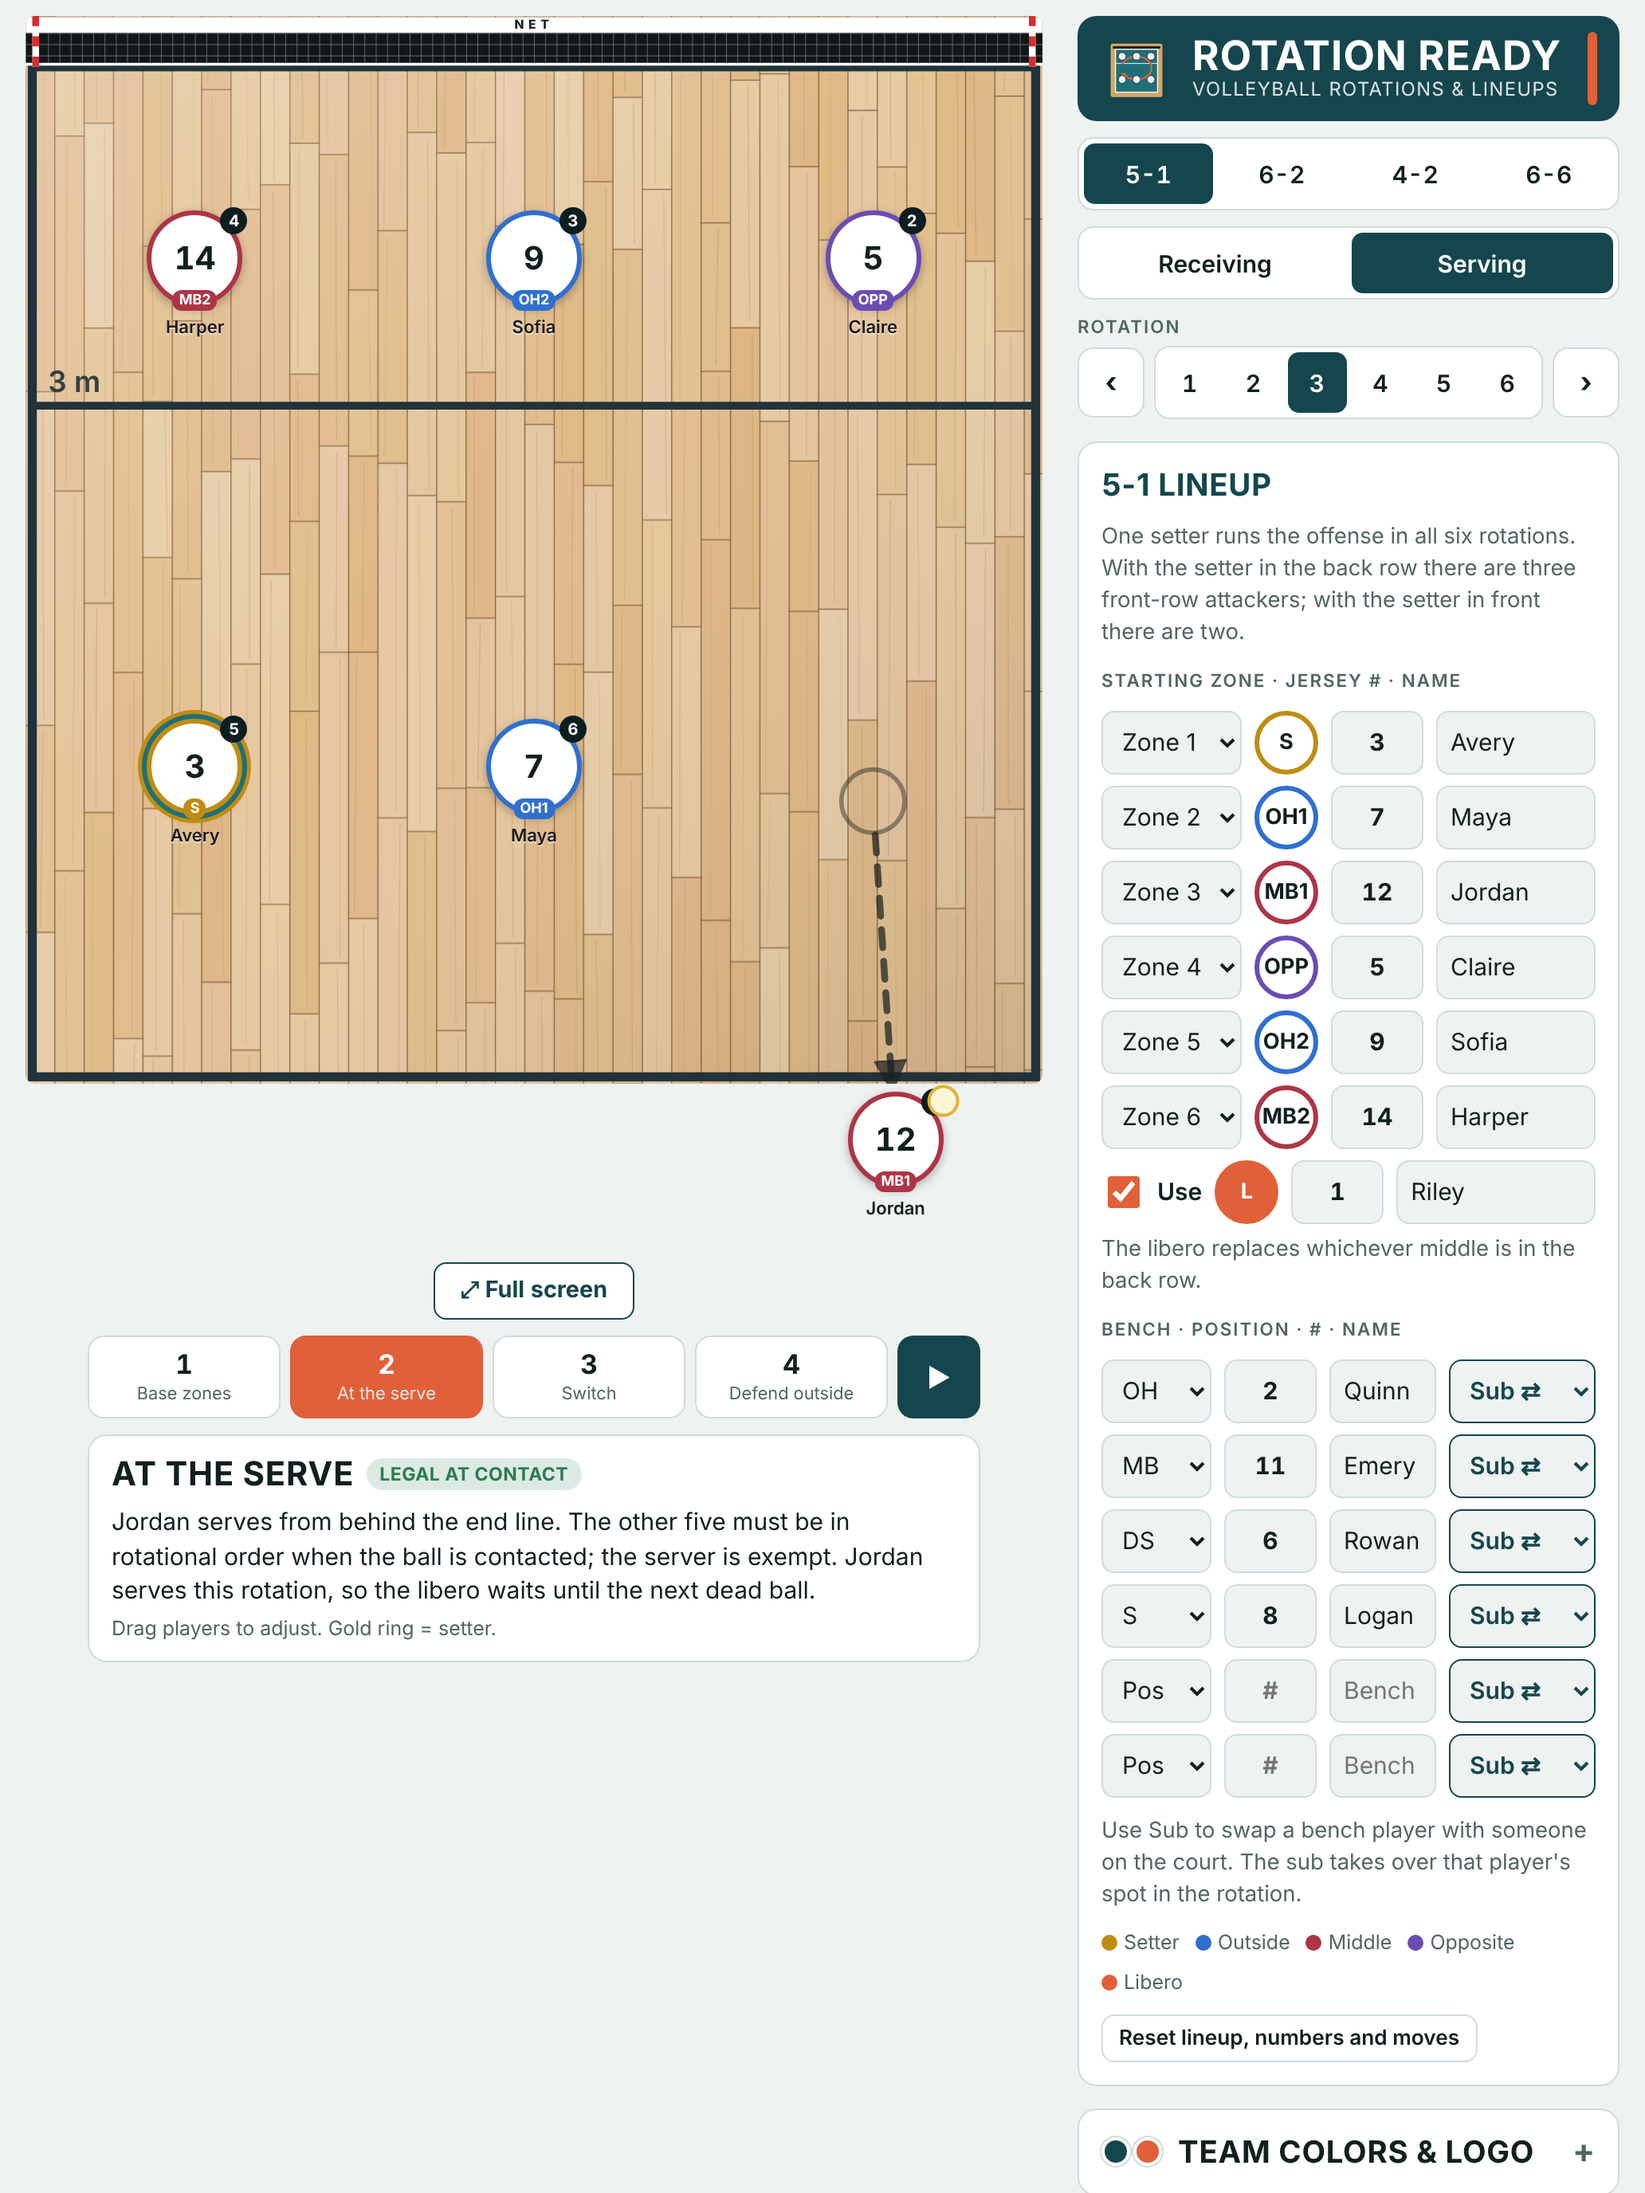
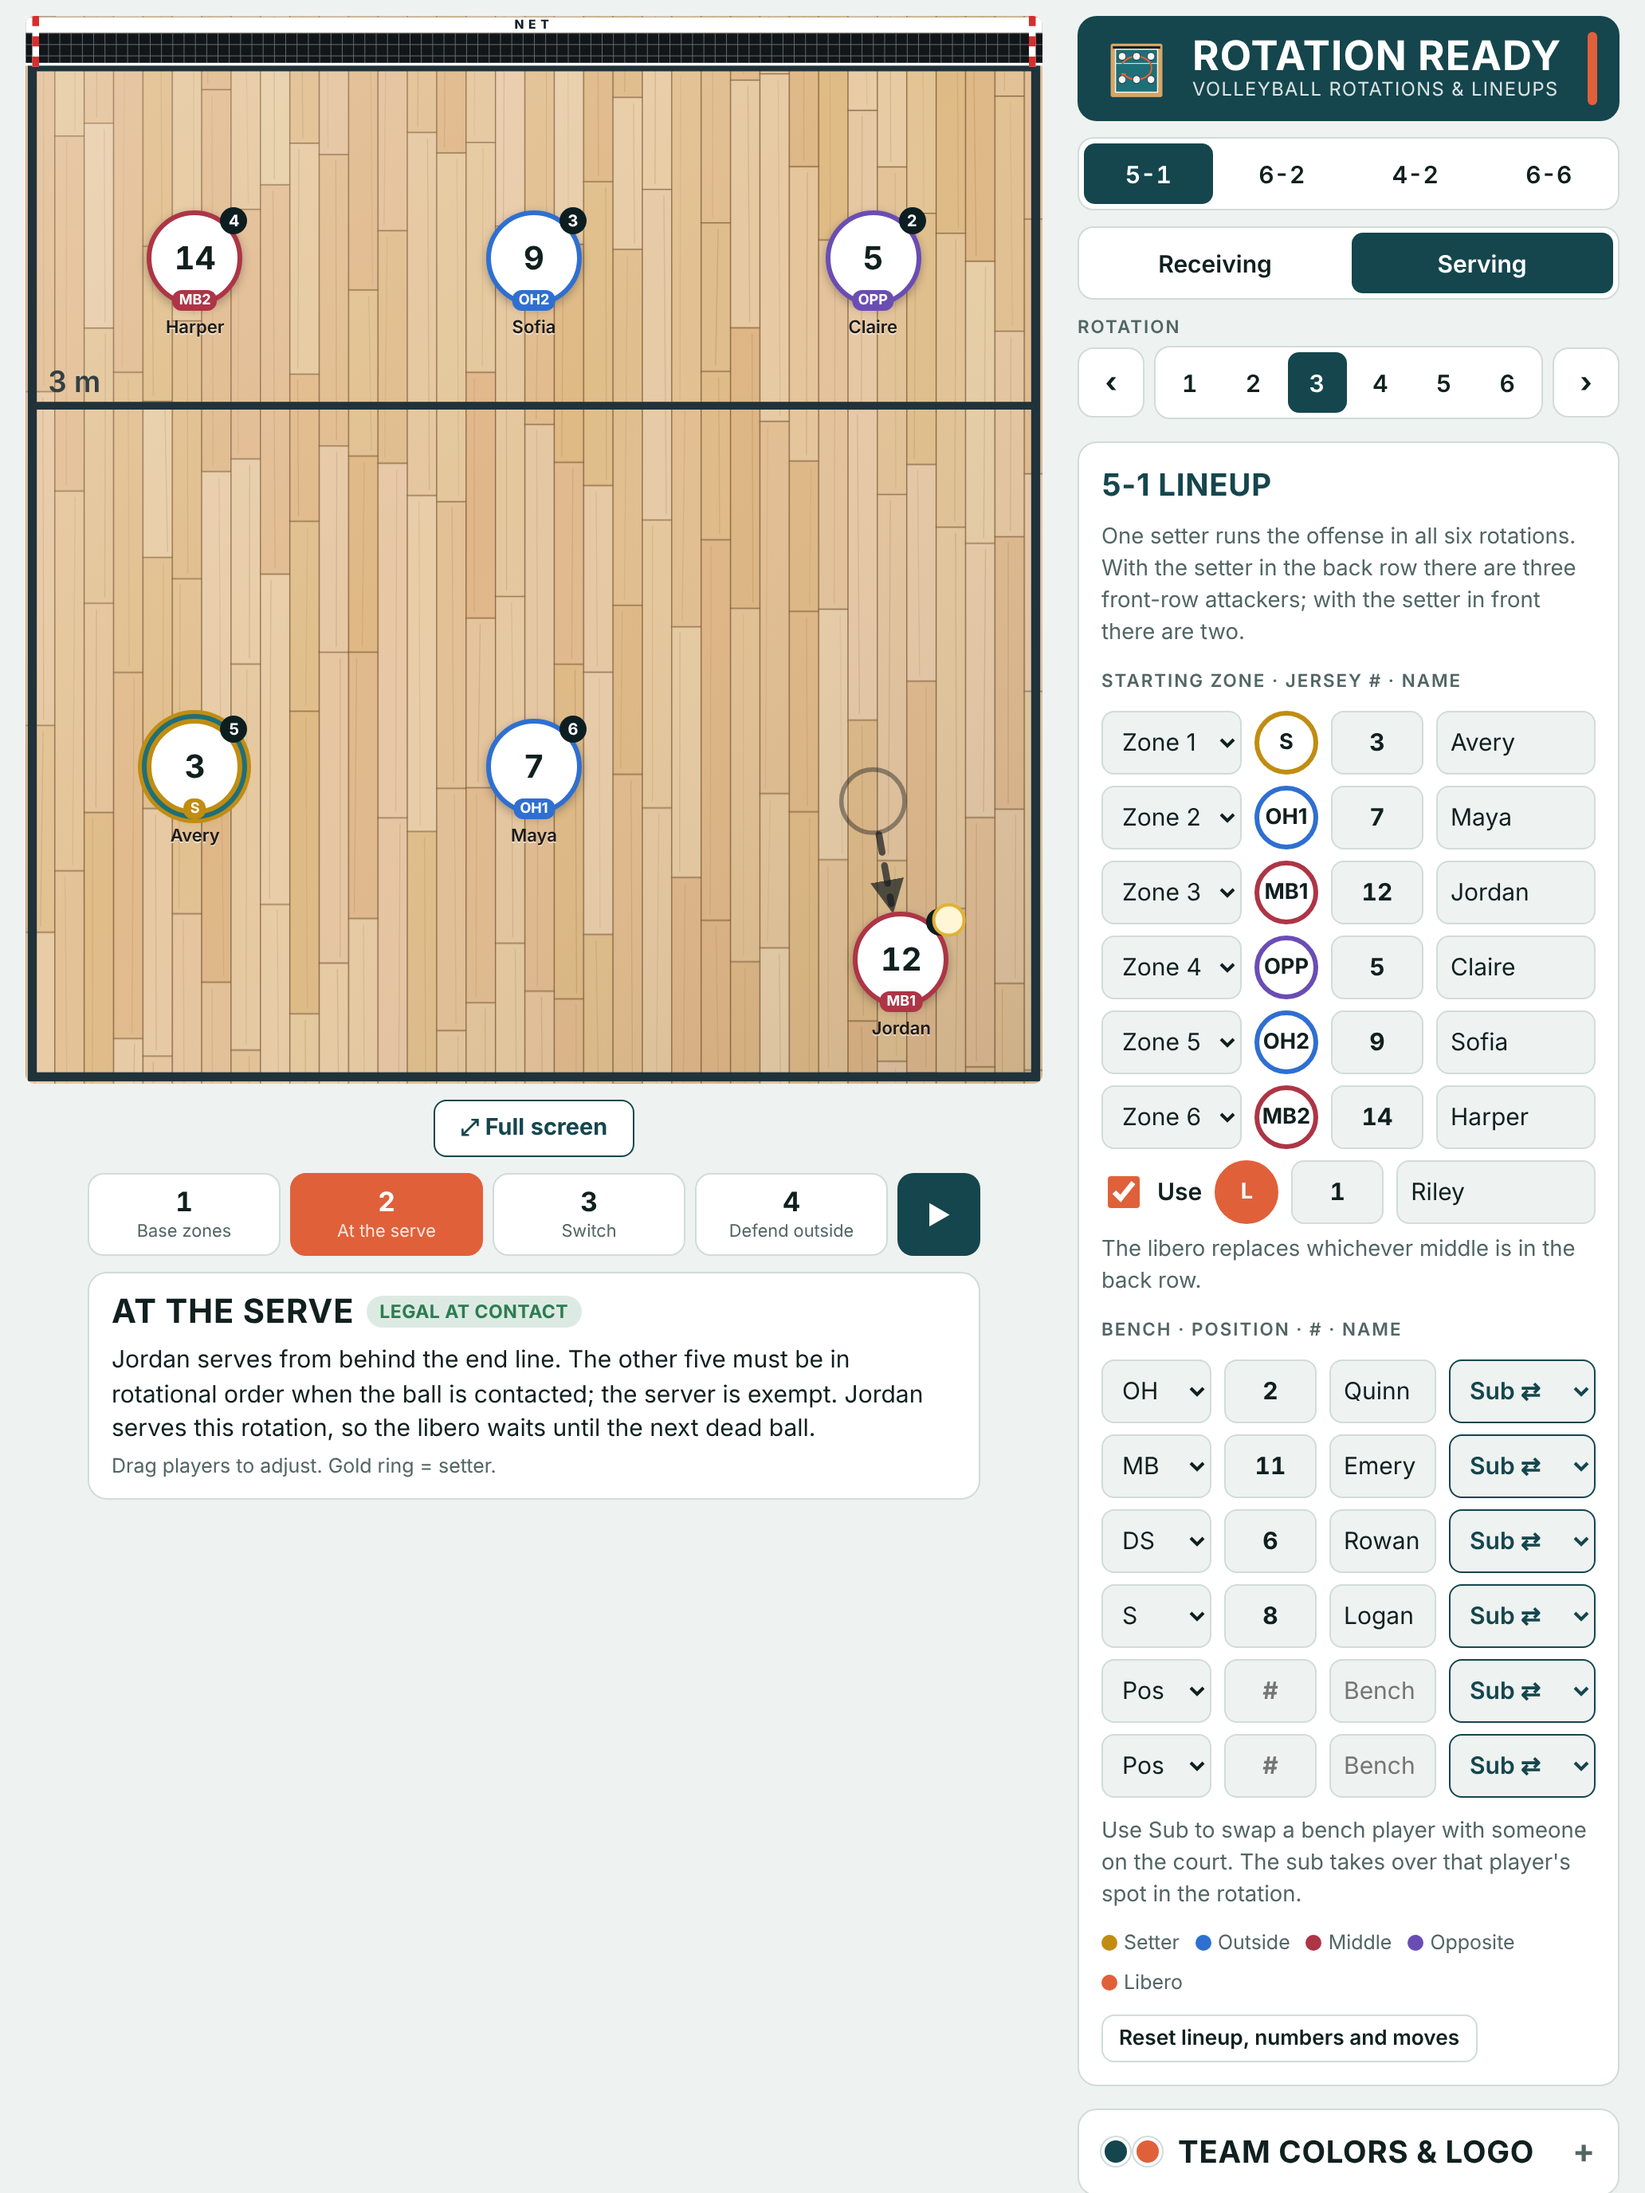
Server stays on the court at the serve
Claude-Session: https://claude.ai/code/session_01XjvadqE4PRY1XXpJhyDyr2

Changed region(s): [[0.062, 0.375, 0.6202, 0.75]]

diff --git a/www/index.html b/www/index.html
@@ -101,7 +101,7 @@ h1{font-family:var(--display);font-weight:700;font-size:1.6rem;letter-spacing:.0
 .zoombar button{border:1px solid var(--line);background:var(--surface);border-radius:8px;min-width:40px;min-height:36px;font-weight:700;font-size:1rem}
 .court{position:relative;width:100%;aspect-ratio:9/9.45;touch-action:manipulation;user-select:none;-webkit-user-select:none}
 .court svg:first-child{border-radius:6px}
-.courtwrap.serving{padding-bottom:16%}
+.courtwrap.serving{padding-bottom:0}
 .court svg{position:absolute;inset:0;width:100%;height:100%;display:block}
 .c-free{fill:var(--free)} .c-court{fill:var(--court)} .c-sheen{display:none}
 .court.wood{--court-line:var(--wood-line,#20323a);--arrow:rgba(25,30,32,.72)}
@@ -187,7 +187,7 @@ body.focus{overflow:hidden}
 body.focus .board{position:fixed;inset:0;z-index:40;background:var(--bg);margin:0;display:flex;flex-direction:column;justify-content:safe center;align-items:center;gap:8px;overflow-y:auto;
   padding:calc(env(safe-area-inset-top,0px) + 8px) max(10px,env(safe-area-inset-right,0px)) calc(env(safe-area-inset-bottom,0px) + 8px) max(10px,env(safe-area-inset-left,0px))}
 body.focus .zoombar,body.focus #steps,body.focus #info{display:none}
-body.focus .courtscroll{overflow:visible;flex:none;width:min(100%,(100dvh - 200px - env(safe-area-inset-top,0px) - env(safe-area-inset-bottom,0px)) * .8)}
+body.focus .courtscroll{overflow:visible;flex:none;width:min(100%,(100dvh - 200px - env(safe-area-inset-top,0px) - env(safe-area-inset-bottom,0px)) * .93)}
 body.focus .courtwrap{width:100%}
 body.focus .focusbar{display:grid;gap:6px;justify-items:center}
 .focusbar .fcap{font-family:var(--display);font-weight:700;text-transform:uppercase;letter-spacing:.03em;font-size:.95rem}
@@ -380,7 +380,7 @@ function basePos(step,c){
   const pos={};
   if(step===1){c.ps.forEach(p=>pos[p.id]=[...ZXY[p.zone]]);return pos;}
   if(S.mode==='serve'&&step===2){
-    c.ps.forEach(p=>{const[x]=ZXY[p.zone];pos[p.id]=p===c.server?[7.7,9.5]:isFront(p.zone)?[x,1.7]:[x,6.2];});return pos;}
+    c.ps.forEach(p=>{const[x]=ZXY[p.zone];pos[p.id]=p===c.server?[7.75,7.9]:isFront(p.zone)?[x,1.7]:[x,6.2];});return pos;}
   if(S.mode==='receive'&&step===2){
     if(S.sys==='6-6'){const W={4:[1.7,3.9],3:[5.2,.9],2:[7.3,3.9],5:[2.3,6.9],6:[4.5,4.7],1:[6.7,6.9]};
       c.ps.forEach(p=>pos[p.id]=[...W[p.zone]]);return repair(pos,c);}

diff --git a/www/sw.js b/www/sw.js
@@ -1,6 +1,6 @@
 // Offline support. The page itself is loaded from the network first, so phones
 // get the newest version whenever they're online; the saved copy is used offline.
-const VERSION = "rotation-ready-v6";
+const VERSION = "rotation-ready-v7";
 const FILES = ["./", "index.html", "manifest.webmanifest", "icon-180.png", "icon-192.png", "icon-512.png"];
 self.addEventListener("install", e => {
   e.waitUntil(caches.open(VERSION).then(c => c.addAll(FILES)).then(() => self.skipWaiting()));
